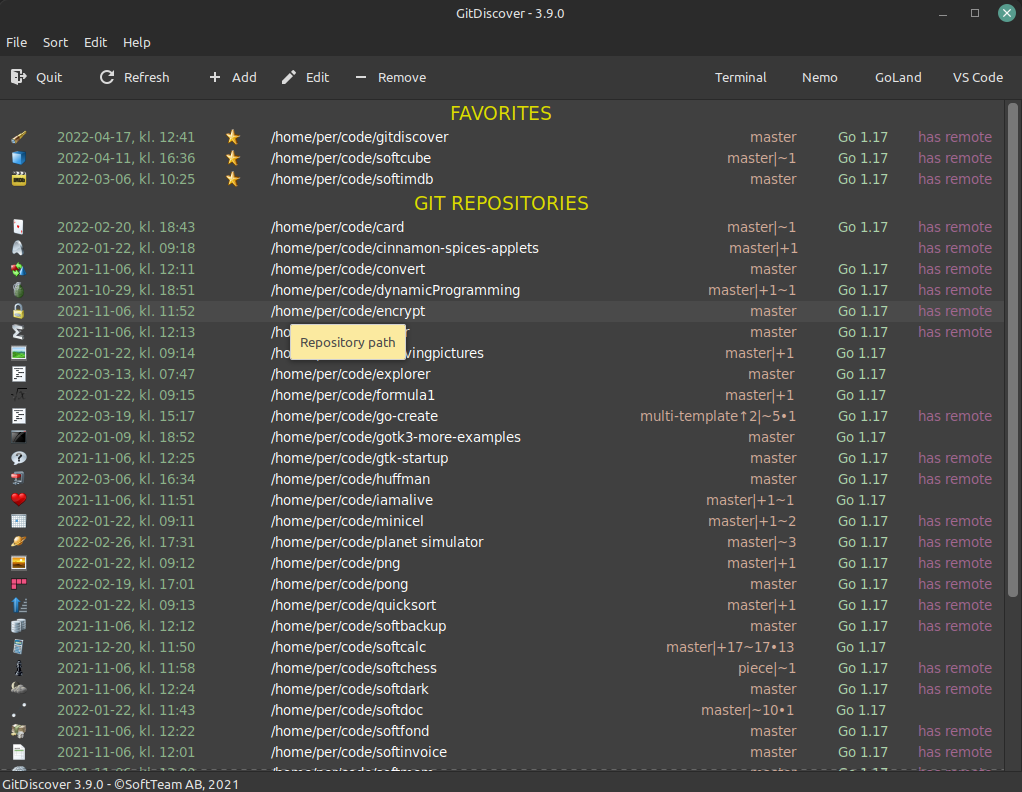
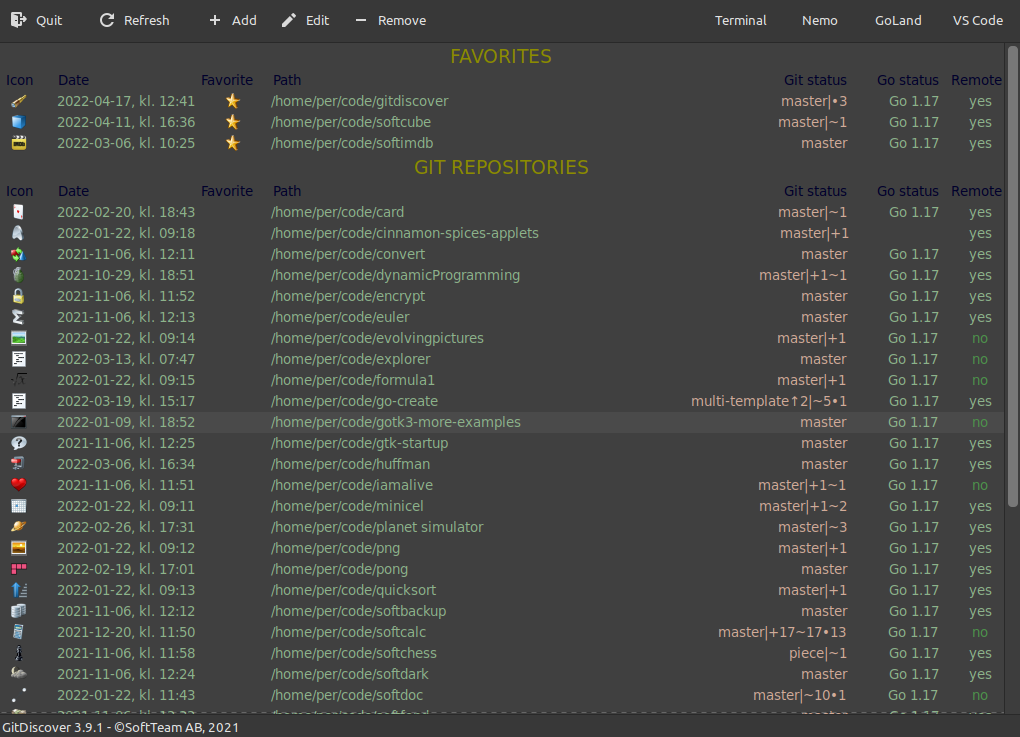
colors

diff --git a/internal/gitdiscover-gui/mainWindowListHelper.go b/internal/gitdiscover-gui/mainWindowListHelper.go
@@ -14,7 +14,8 @@ import (
 )
 
 // Column :                  Path      Date      GitStatus GoStatus  Yes       No
-var columnColors = []string{"FFFFFF", "8DB38B", "D2AB99", "ADD3AB", "C290AA", "A26690"}
+var columnColors = []string{"8DB38B", "8DB38B", "D2AB99", "8DB38B", "8DB38B", "4D934B"}
+var headerColor = "00002C"
 
 func (m *MainWindow) addRepositoryButtonClicked() {
 	// Create and show the folder chooser dialog
@@ -96,22 +97,30 @@ func (m *MainWindow) refreshRepositoryList() {
 }
 
 func (m *MainWindow) addSeparators() {
-	// Add git repository separator
+	// Add the favorites separator
 	sepItem := m.createListSeparator("FAVORITES")
 	m.repositoryListBox.Insert(sepItem, 0)
 
-	// Add git repository separator
+	// Add favorites header
+	hdrItem := m.createHeaderItem()
+	m.repositoryListBox.Insert(hdrItem, 1)
+
+	// Add git repository separator and header
 	index := m.getFavoritesBoundaryIndex()
 	if index != -1 {
 		sepItem = m.createListSeparator("GIT REPOSITORIES")
-		m.repositoryListBox.Insert(sepItem, index+1)
+		m.repositoryListBox.Insert(sepItem, index+2)
+		hdrItem = m.createHeaderItem()
+		m.repositoryListBox.Insert(hdrItem, index+3)
 	}
 
-	// Addd non-git repository separator
+	// Addd non-git repository separator and header
 	index = m.getGitRepositoryBoundaryIndex()
 	if index != -1 {
 		sepItem = m.createListSeparator("NON-GIT FOLDERS")
-		m.repositoryListBox.Insert(sepItem, index+1)
+		m.repositoryListBox.Insert(sepItem, index+4)
+		hdrItem = m.createHeaderItem()
+		m.repositoryListBox.Insert(hdrItem, index+5)
 	}
 }
 
@@ -193,8 +202,96 @@ func (m *MainWindow) createListSeparator(text string) *gtk.Box {
 		m.logger.Panic(err)
 		panic(err)
 	}
-	label.SetMarkup(`<span font="Sans Regular 14" foreground="#DDDD00">` + text + `</span>`)
+	label.SetMarkup(`<span font="Sans Regular 14" foreground="#8C8C00">` + text + `</span>`)
 	box.PackStart(label, true, true, 10)
+
+	return box
+}
+
+func (m *MainWindow) createHeaderItem() *gtk.Box {
+	// Create main box
+	box, err := gtk.BoxNew(gtk.ORIENTATION_HORIZONTAL, 10)
+	if err != nil {
+		m.logger.Panic(err)
+		panic(err)
+	}
+
+	// Icon
+	label, err := gtk.LabelNew("")
+	if err != nil {
+		m.logger.Panic(err)
+		panic(err)
+	}
+	label.SetMarkup(m.getMarkup("Icon", headerColor))
+	label.SetName("hdrIcon")
+	label.SetTooltipText("Repository icon")
+	box.PackStart(label, false, false, 5)
+
+	// Date
+	label, err = gtk.LabelNew("")
+	if err != nil {
+		m.logger.Panic(err)
+		panic(err)
+	}
+	label.SetMarkup(m.getMarkup("Date                       ", headerColor))
+	label.SetName("hdrDate")
+	label.SetTooltipText("Modified date of the git repository folder")
+	box.PackStart(label, false, false, 10)
+
+	// Favorite icon
+	label, err = gtk.LabelNew("Favorite")
+	if err != nil {
+		m.logger.Panic(err)
+		panic(err)
+	}
+	label.SetMarkup(m.getMarkup("Favorite", headerColor))
+	label.SetName("hdrFavorite")
+	label.SetTooltipText("Is the repository marked as a user favorite?")
+	box.PackStart(label, false, false, 0)
+
+	// Path
+	label, err = gtk.LabelNew("")
+	if err != nil {
+		m.logger.Panic(err)
+		panic(err)
+	}
+	label.SetMarkup(m.getMarkup("Path", headerColor))
+	label.SetName("hdrPath")
+	label.SetTooltipText("Repository path")
+	box.PackStart(label, false, false, 10)
+
+	// HasRemote
+	label, err = gtk.LabelNew("")
+	if err != nil {
+		m.logger.Panic(err)
+		panic(err)
+	}
+	label.SetMarkup(m.getMarkup("Remote", headerColor))
+	label.SetName("hdrHasRemote")
+	label.SetTooltipText("Does the repository have a remote repository?")
+	box.PackEnd(label, false, false, 0)
+
+	// GoStatus
+	label, err = gtk.LabelNew("")
+	if err != nil {
+		m.logger.Panic(err)
+		panic(err)
+	}
+	label.SetMarkup(m.getMarkup("Go status", headerColor))
+	label.SetName("hdrGoStatus")
+	label.SetTooltipText("The go version set in the go.mod file")
+	box.PackEnd(label, false, false, 2)
+
+	// GitStatus
+	label, err = gtk.LabelNew("")
+	if err != nil {
+		m.logger.Panic(err)
+		panic(err)
+	}
+	label.SetMarkup(m.getMarkup("Git status  ", headerColor))
+	label.SetName("hdrGitStatus")
+	label.SetTooltipText("The branch and the status of the git branch (modified,added, deleted, etc...)")
+	box.PackEnd(label, false, false, 10)
 
 	return box
 }
@@ -255,10 +352,8 @@ func (m *MainWindow) createListItem(index int, dateFormat string, repo *gitdisco
 	}
 	if strings.Trim(repo.HasRemote(), " ") == "yes" {
 		label.SetMarkup(m.getMarkup(repo.HasRemote(), columnColors[4]))
-		// label.SetMarkup(`<span font="Sans Regular 10" foreground="#44DD44">` + repo.HasRemote() + `</span>`)
 	} else {
 		label.SetMarkup(m.getMarkup(repo.HasRemote(), columnColors[5]))
-		// label.SetMarkup(`<span font="Sans Regular 10" foreground="#DD4444">` + repo.HasRemote() + `</span>`)
 	}
 
 	label.SetName("lblHasRemote")

diff --git a/internal/gitdiscover/repository.go b/internal/gitdiscover/repository.go
@@ -95,13 +95,13 @@ func (t *Repository) GoStatus() string {
 // HasRemote returns true if the repository has a Git remote repository.
 func (t *Repository) HasRemote() string {
 	if !t.IsGit() {
-		return "                   "
+		return " no "
 	}
 	if t.hasRemote {
-		return "has remote"
+		return "yes"
 	}
 
-	return "                   "
+	return " no "
 }
 
 // IsGit returns true if the folder points to a Git repository (has a .git folder).

diff --git a/internal/gitdiscover-gui/constants.go b/internal/gitdiscover-gui/constants.go
@@ -1,7 +1,7 @@
 package gitdiscover_gui
 
 const (
-	applicationVersion   = "3.9.0"
+	applicationVersion   = "3.9.1"
 	applicationTitle     = "GitDiscover"
 	applicationCopyRight = "©SoftTeam AB, 2021"
 )
